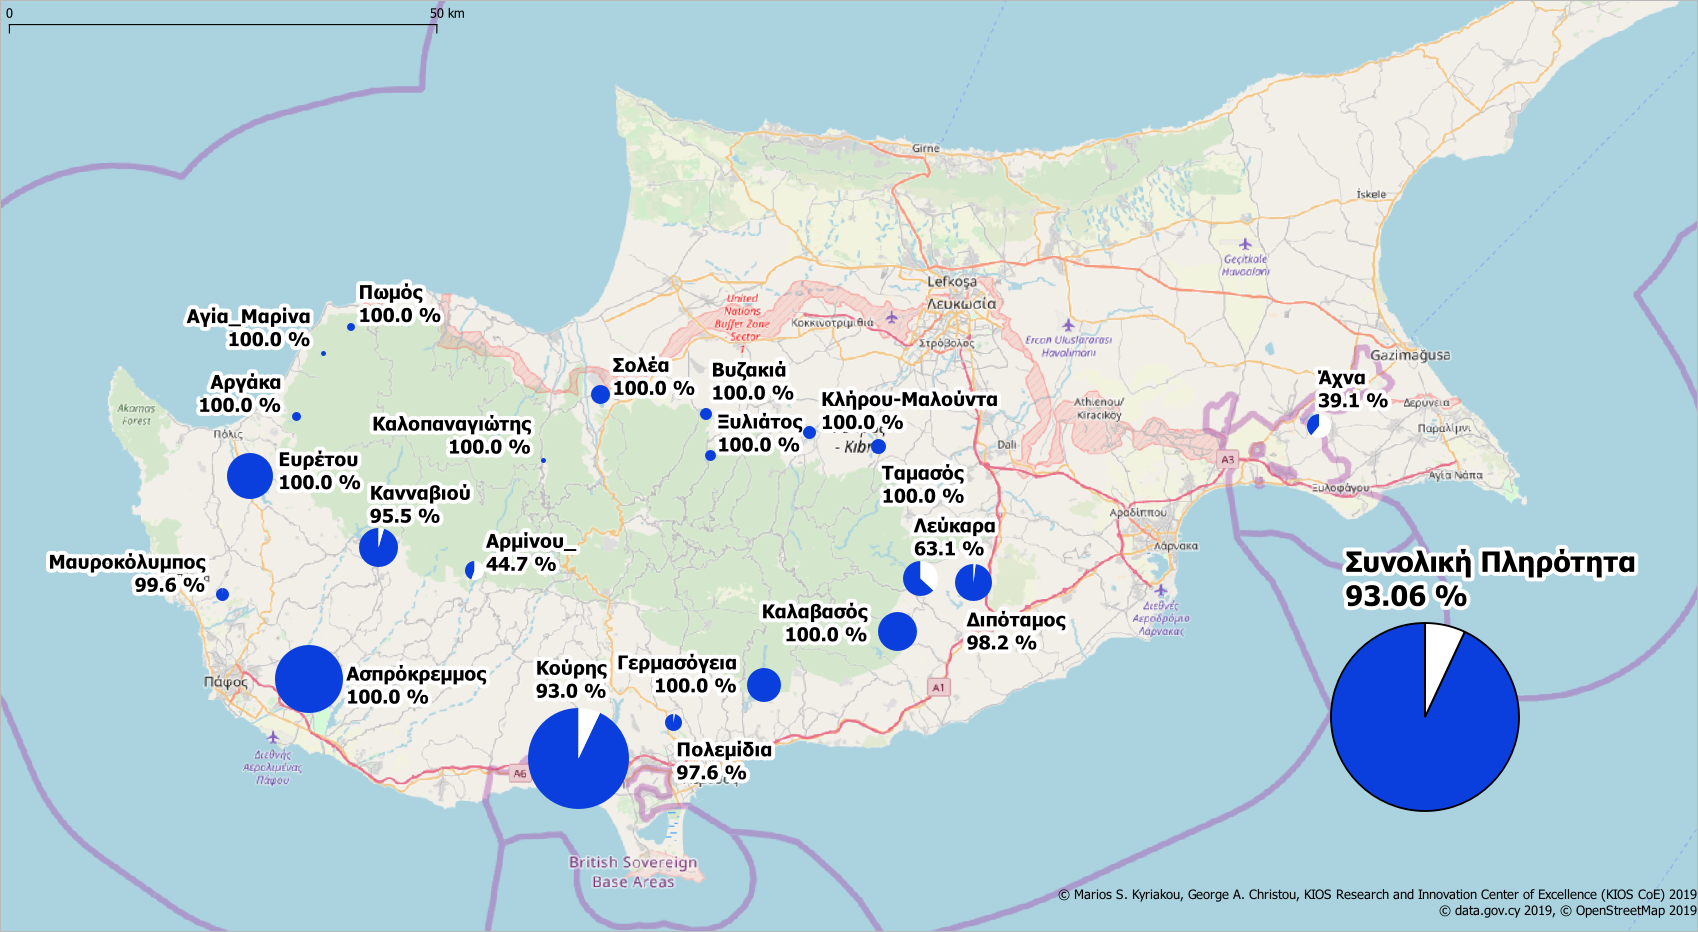
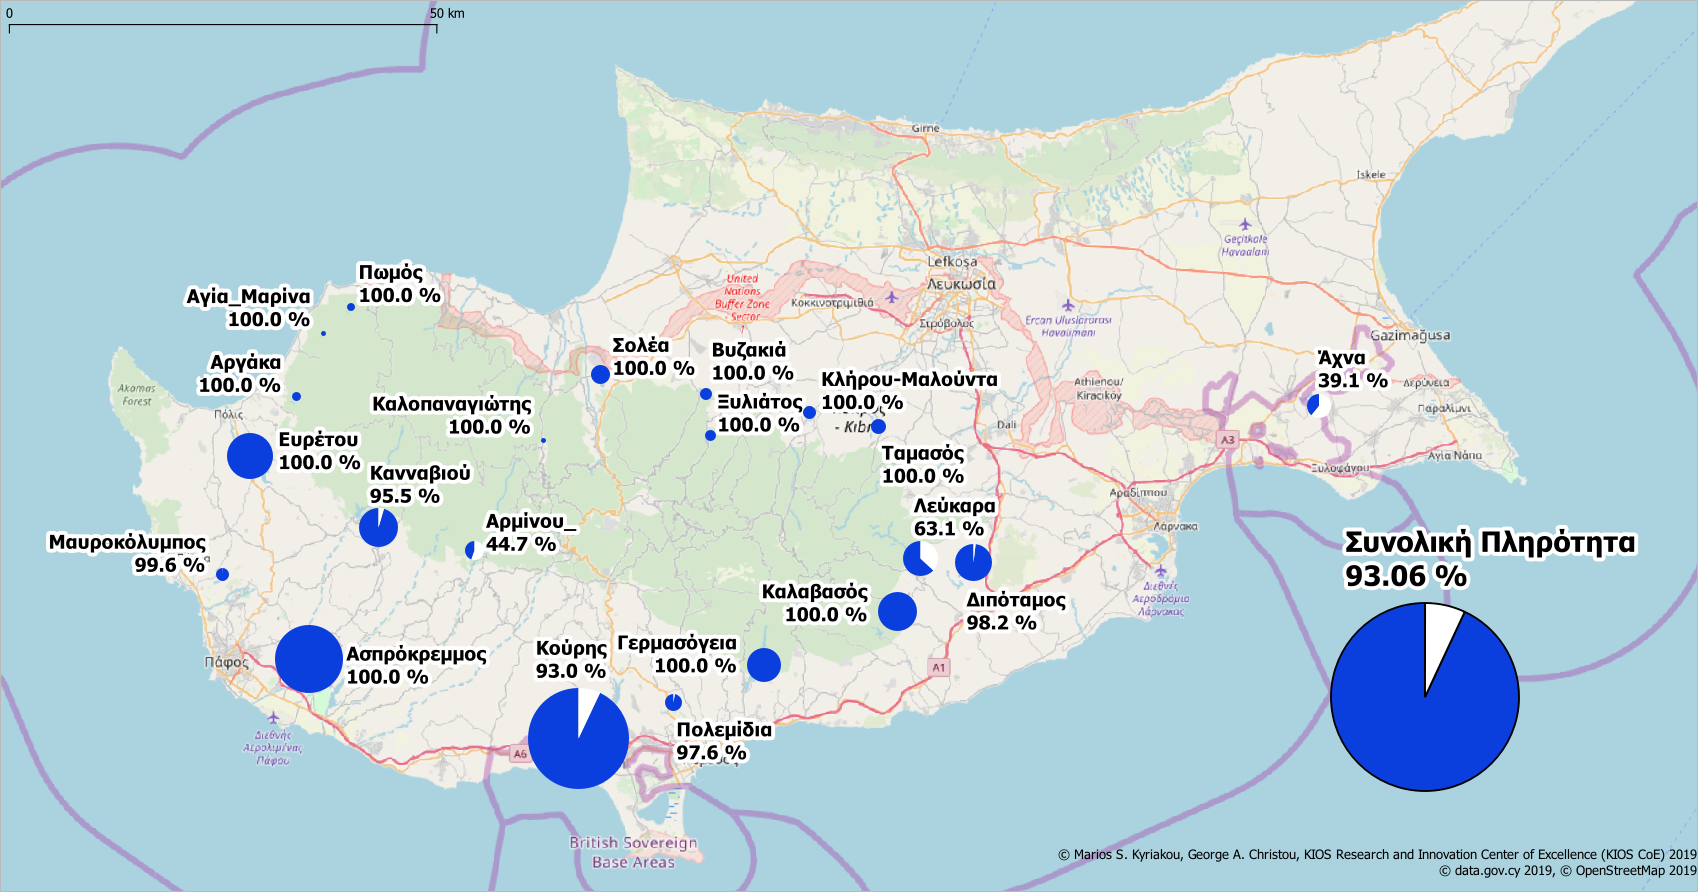
update

diff --git a/dams.html b/dams.html
@@ -11,7 +11,7 @@
          1px  1px 7px WHITE;
     }
     }
-    </style><p><b>Ημερομηνία ανανέωσης δεδομένων: 10/5/2019<p><font color="#0000FF">Η συνολική πληρότητα στα φράγματα είναι 93.06%</font>.<p>Υπάρχουν συνολικά <font color="#0000FF">13</font> φράγματα με πληρότητα <font color="#0000FF">100%</font>.<p>Υπάρχουν <font color="#0000FF">19</font> φράγματα με πληρότητα πάνω από <font color="#0000FF">50%</font>.</b><p><b>Υπάρχουν δεδομένα για 21 φράγματα. Συνολικά υπάρχουν 108 φράγματα. <b><p><p><p>* Ε.Κ.Μ. - Εκατομμύρια Kυβικά  Mέτρα.<table width="444">
+    </style><p><b>Ημερομηνία ανανέωσης δεδομένων: 11/5/2019<p><font color="#0000FF">Η συνολική πληρότητα στα φράγματα είναι 93.06%</font>.<p>Υπάρχουν συνολικά <font color="#0000FF">13</font> φράγματα με πληρότητα <font color="#0000FF">100%</font>.<p>Υπάρχουν <font color="#0000FF">19</font> φράγματα με πληρότητα πάνω από <font color="#0000FF">50%</font>.</b><p><b>Υπάρχουν δεδομένα για 21 φράγματα. Συνολικά υπάρχουν 108 φράγματα. <b><p><p><p>* Ε.Κ.Μ. - Εκατομμύρια Kυβικά  Mέτρα.<table width="444">
     <tbody>
     <tr>
     <th width="2"><b></b></th>
